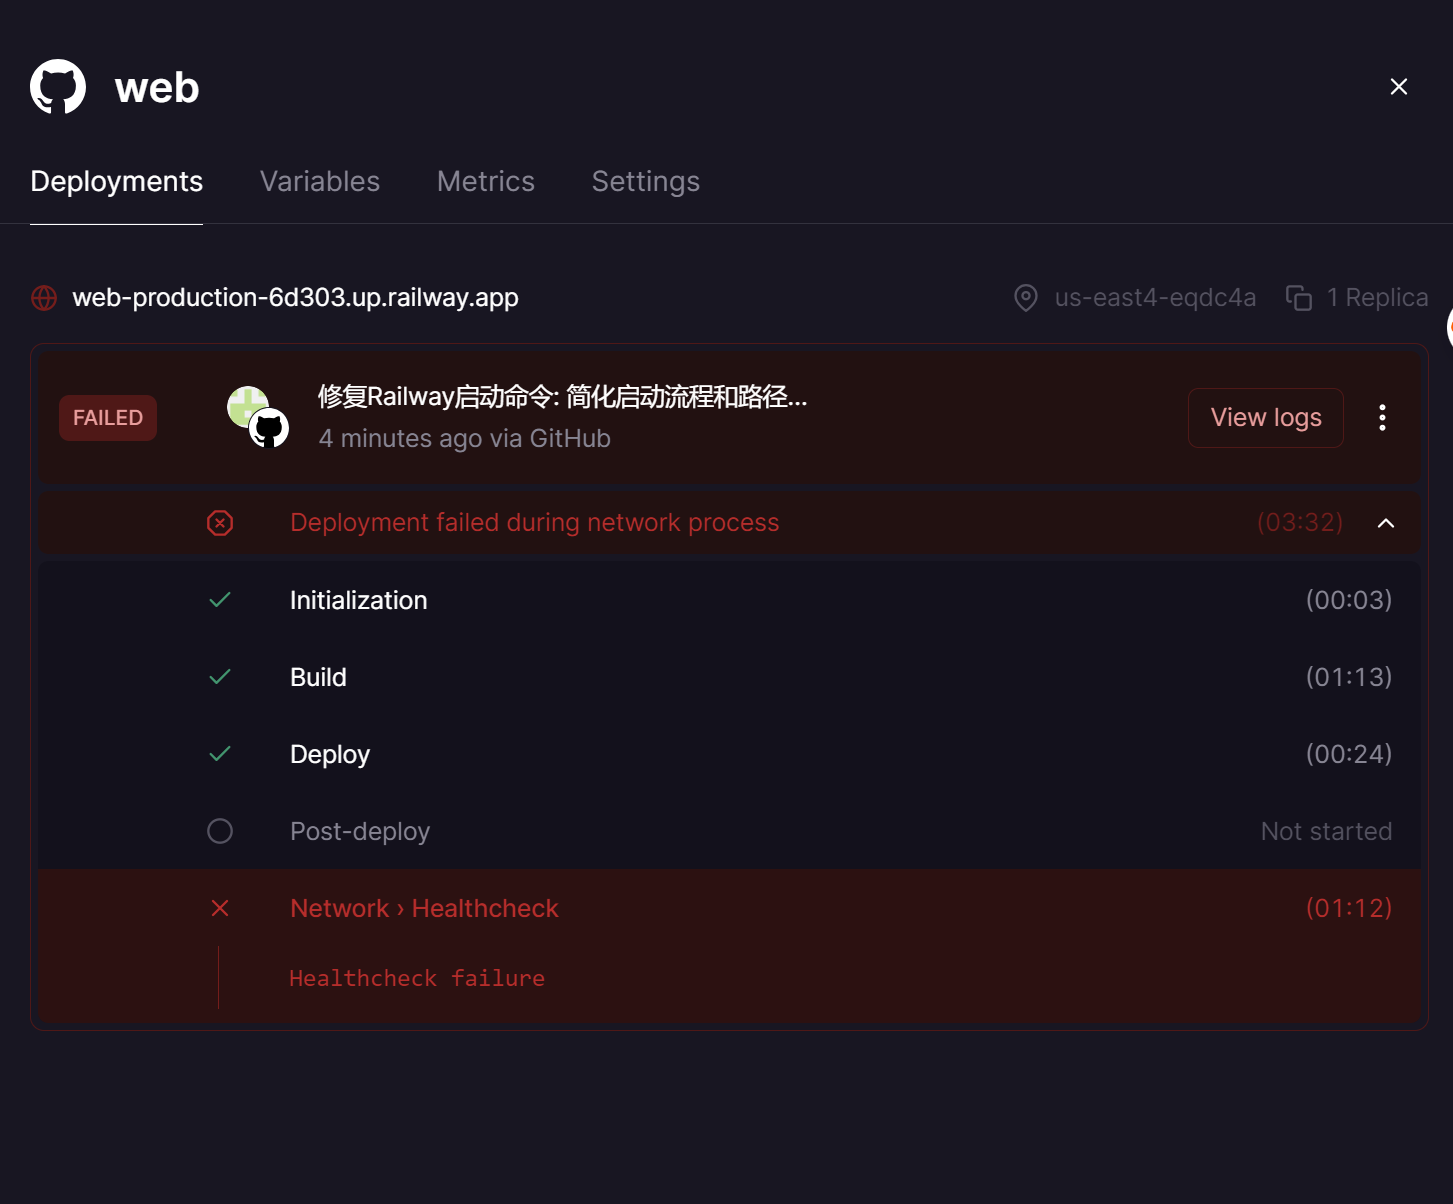
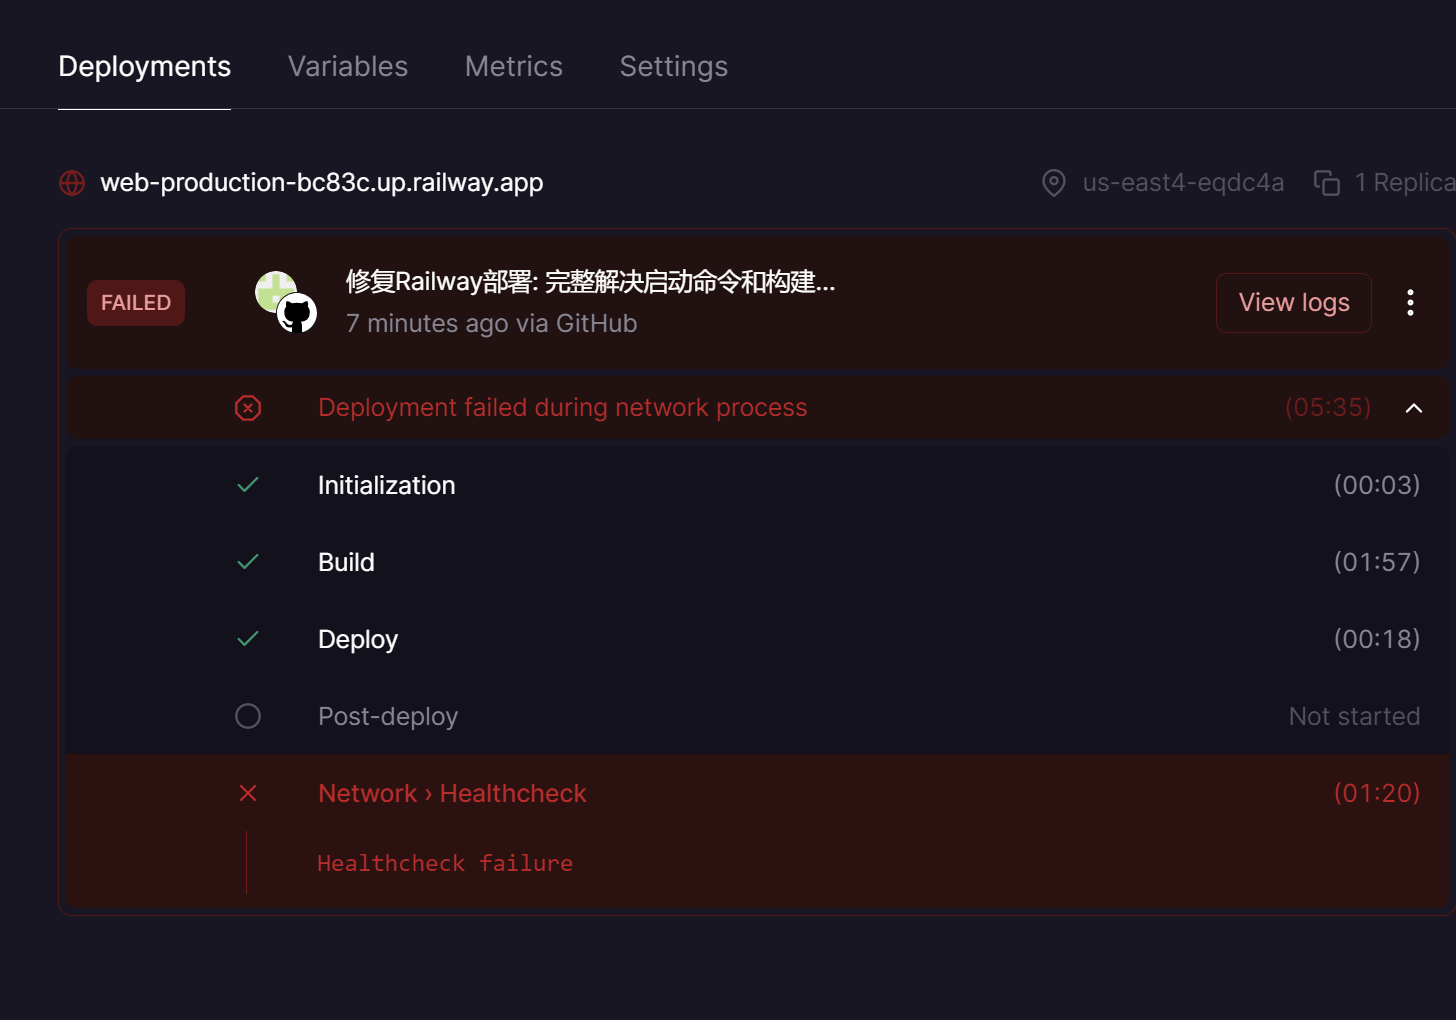
Message 334165937971628 - 1763136878

diff --git a/railway_deployment_guide.md b/railway_deployment_guide.md
@@ -1,0 +1,51 @@
+# Railway部署操作指南
+
+## 📋 修复摘要
+✅ **railway.json**: 启动命令改为 `python main.py`
+✅ **main.py**: 简化入口点，修复导入路径
+✅ **requirements.txt**: 移除重型依赖(selenium, opencv, Pillow等)
+✅ **配置验证**: 5/5项检查通过
+
+## 🚀 Railway部署操作步骤
+
+### 方法一：创建新项目（推荐）
+1. **访问Railway控制台**
+   - 打开: https://railway.app/dashboard
+   
+2. **创建新项目**
+   - 点击 "New Project" 按钮
+   - 选择 "Deploy from GitHub repo"
+   
+3. **选择仓库**
+   - 找到并选择: `iro1983/fashion-data-analysis`
+   - 点击 "Deploy Now"
+   
+4. **等待部署**
+   - 构建时间约2-5分钟
+   - 部署成功后会显示绿色状态和访问URL
+
+### 方法二：更新现有项目（备选）
+1. 在现有项目页面
+2. 点击 "Settings" → "Repository" 
+3. 点击 "Update" 按钮（重新部署）
+4. 或点击 "Deployments" → "Deploy Latest"
+
+## 📊 预期结果
+✅ **构建成功**: 不再出现 "Error creating build plan with Railpack"  
+✅ **启动成功**: 不再出现 "No start command was found"  
+✅ **访问URL**: 获得类似 `https://your-app.railway.app` 的访问地址
+
+## 🔧 如需配置环境变量
+如果部署成功但数据抓取功能需要API密钥，请在Railway项目设置中添加：
+- `TIKHUB_API_KEY`: 你的TikTok API密钥
+- `AMAZON_ACCESS_KEY`: 你的Amazon访问密钥
+- `AMAZON_SECRET_KEY`: 你的Amazon密钥
+
+## 📞 部署支持
+如果仍遇到问题，请提供：
+1. Railway部署日志截图
+2. 具体错误信息
+3. 项目URL（如果可以访问）
+
+---
+**修复代码已就绪，现在可以安全部署！**
